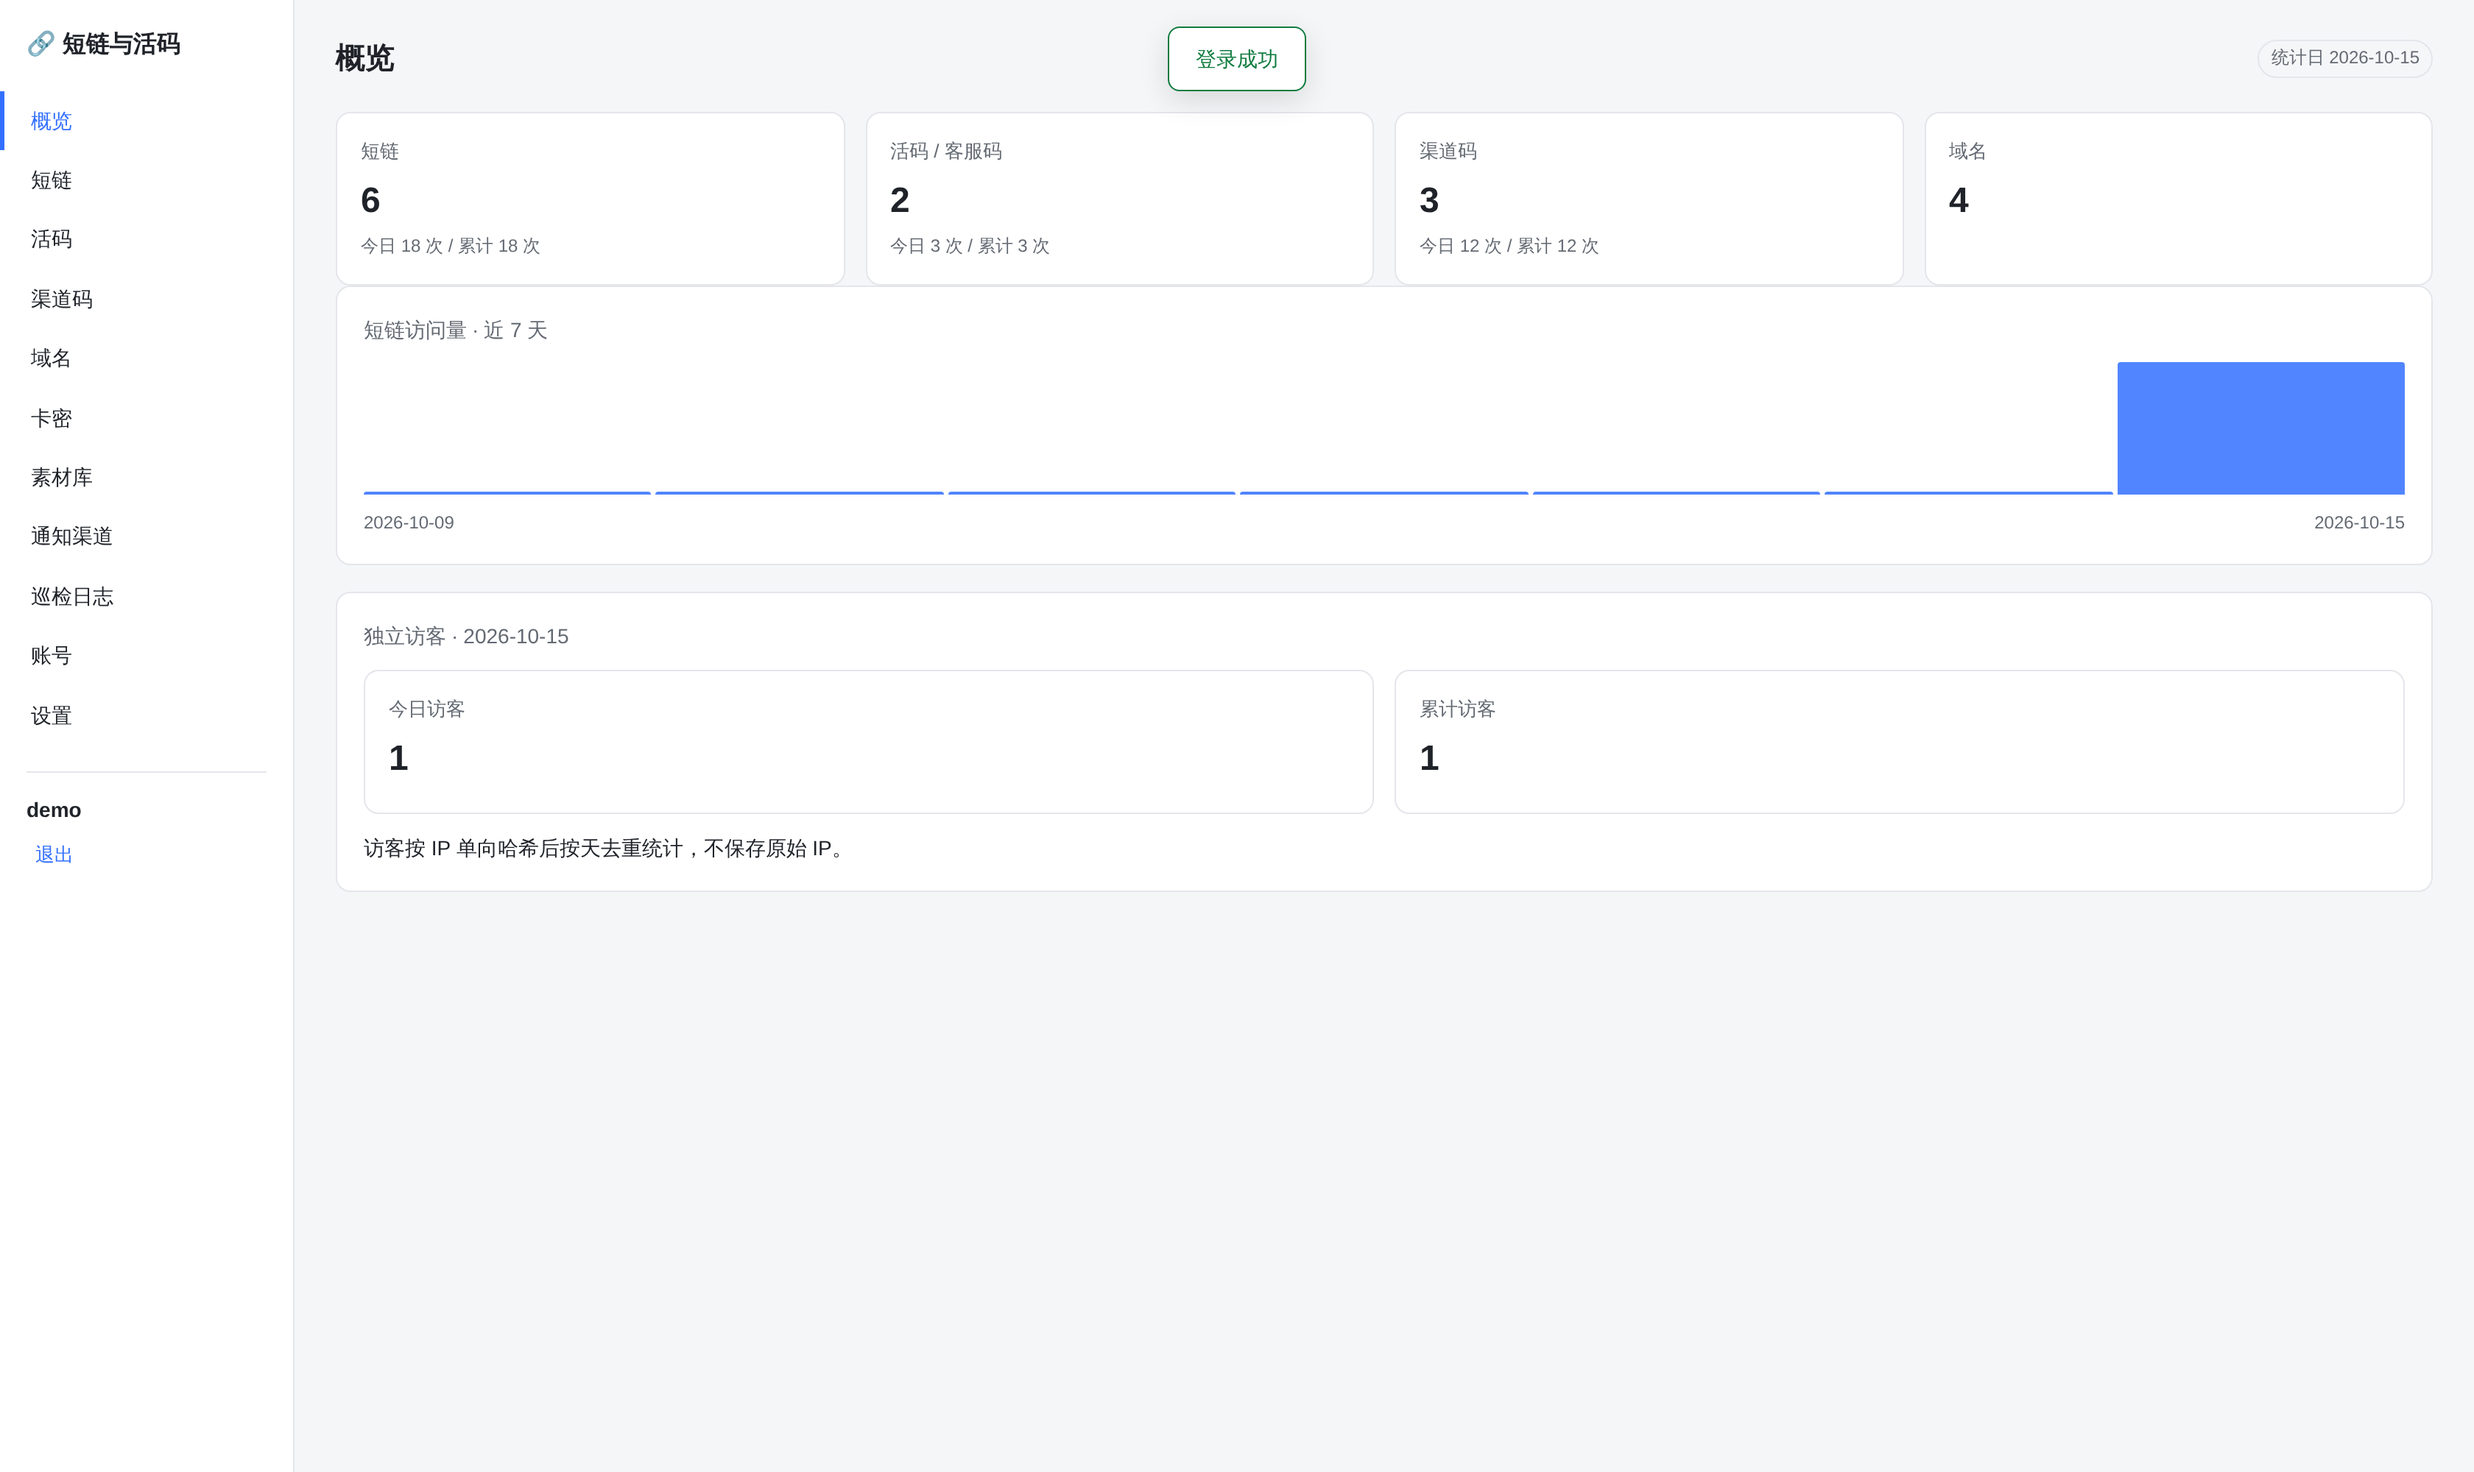
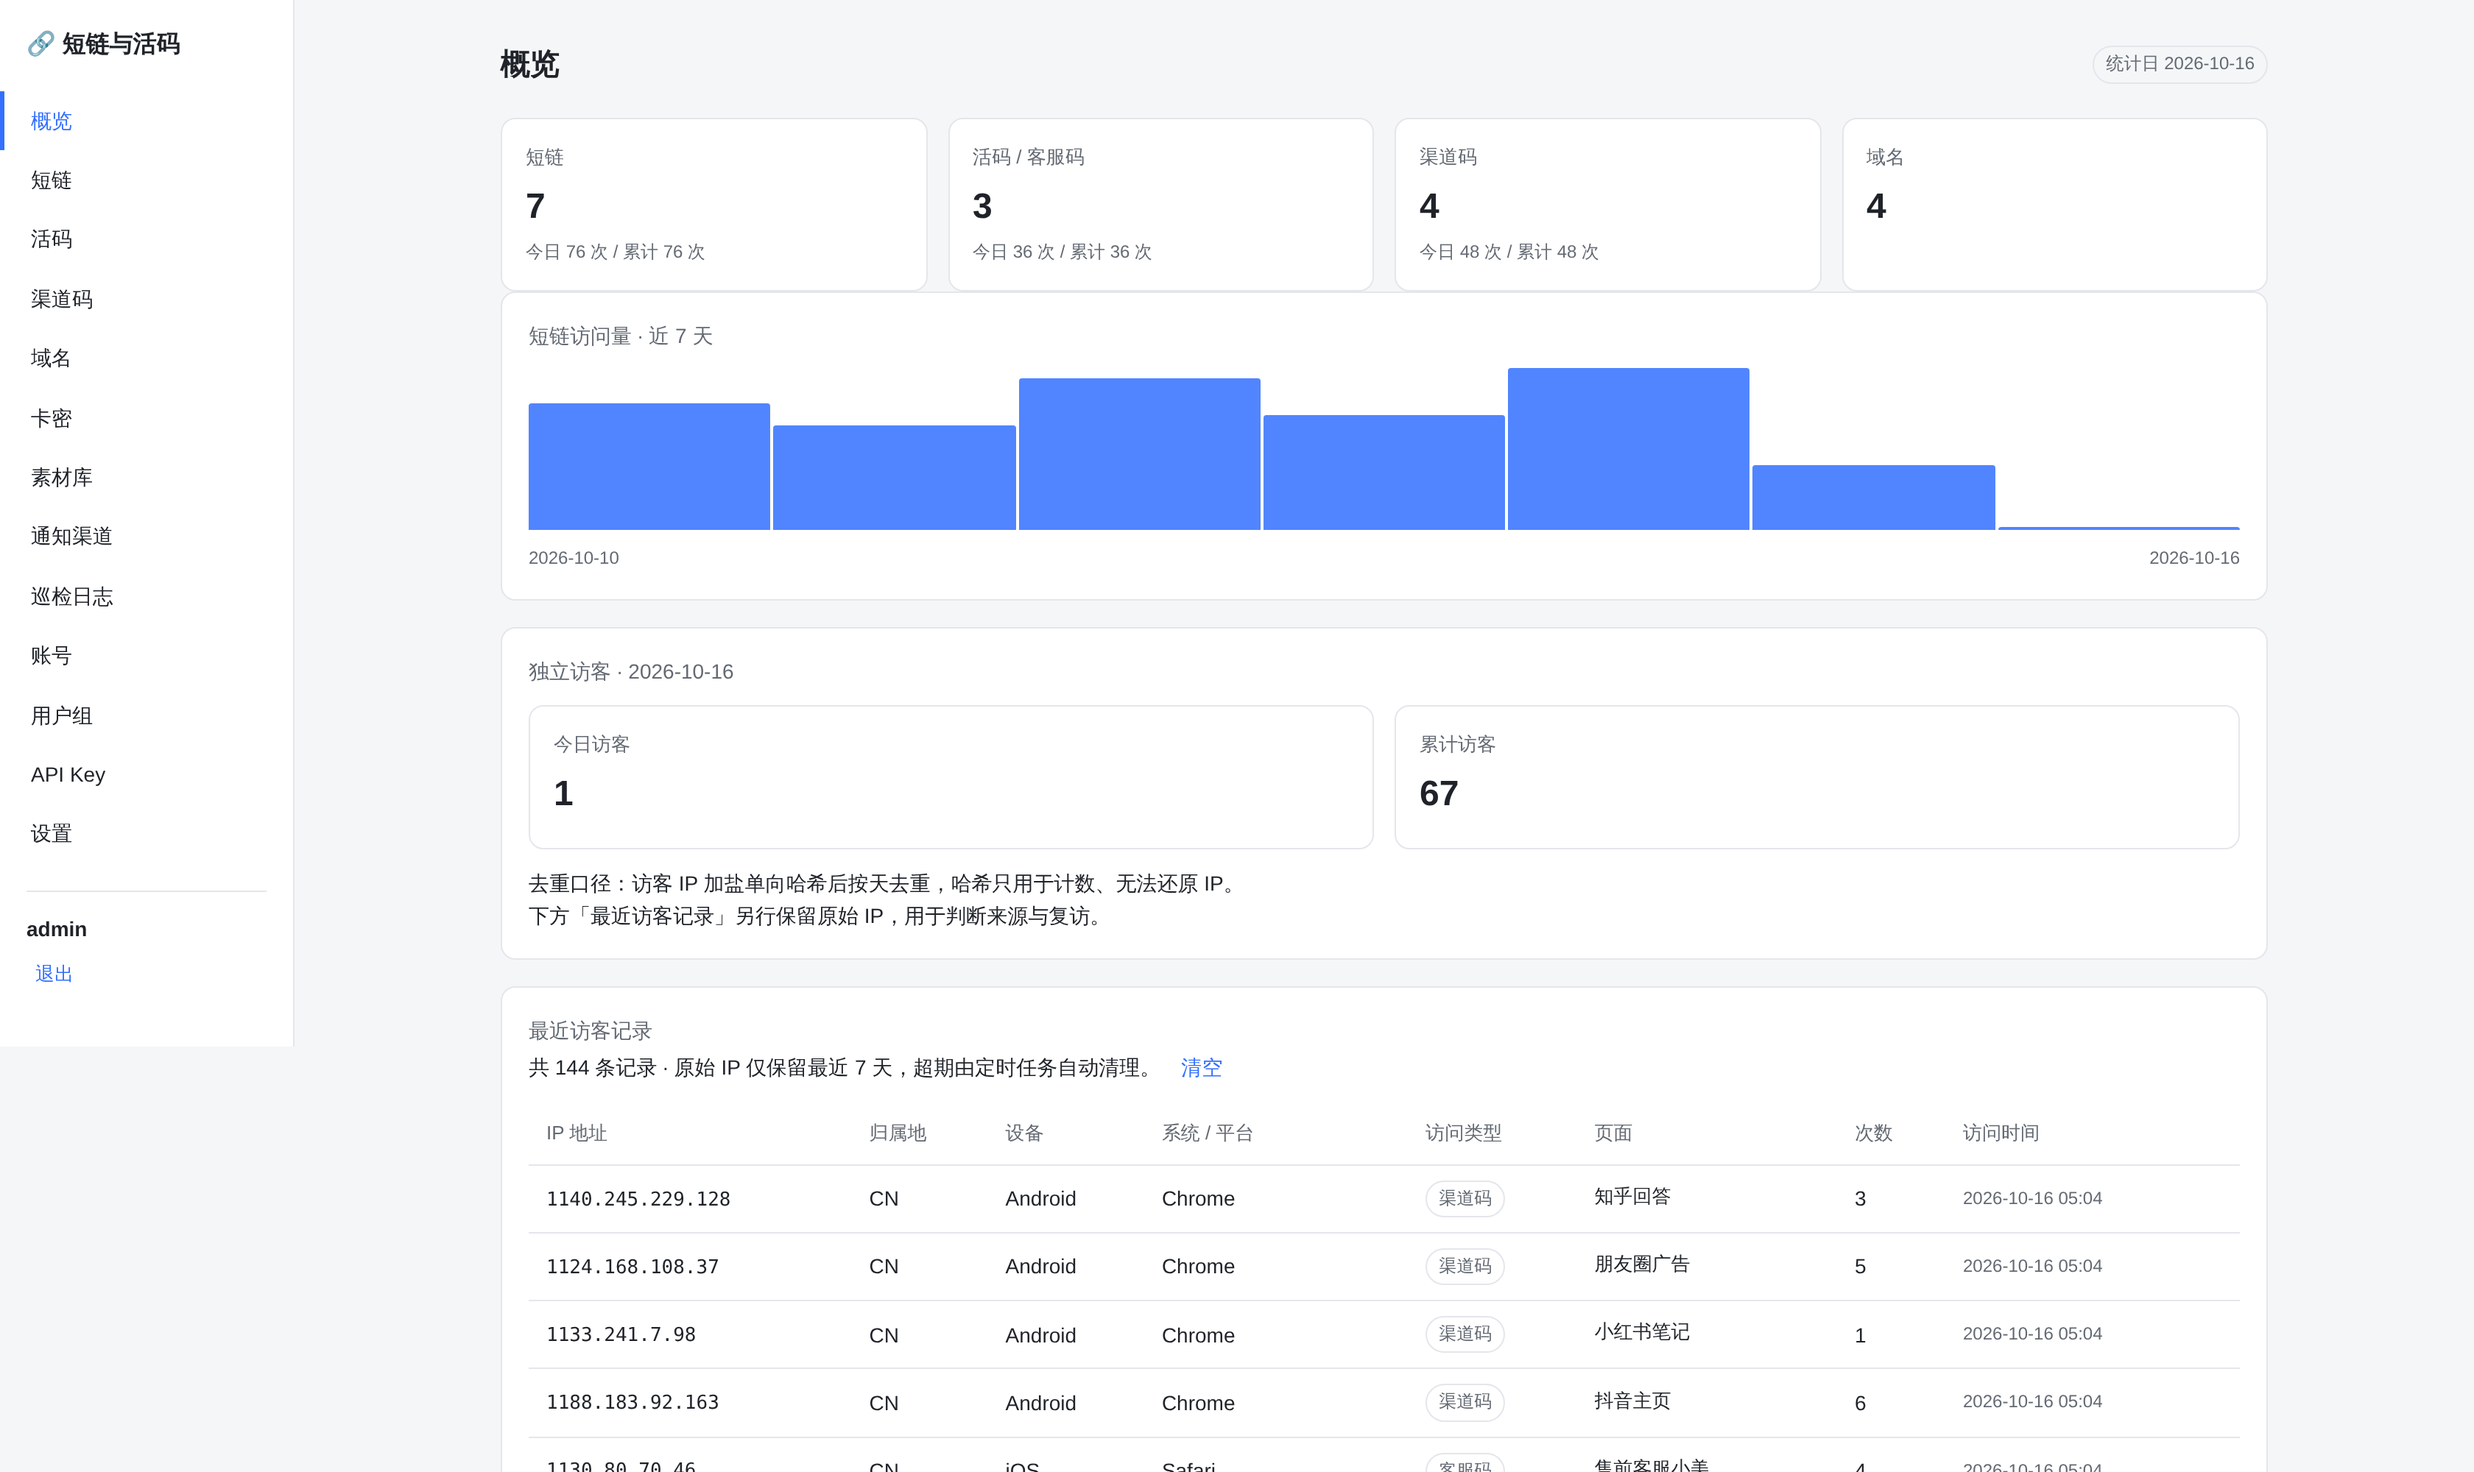
docs: 更新演示截图，补充用户组与开放接口页
项目新增了用户组配额、开放接口（API Key + skill 一键安装）等能力，
原来的 README 截图已经对不上，重拍全部 12 张后台截图。

顺带修掉截图中暴露的两个问题：

- 巡检日志接口直接返回下划线列名的裸行，导致「耗时」「时间」
  两列永远渲染成 `-`。补一层 camelCase 序列化，并加断言防回归。
- 表格操作列会被前面的长列挤到贴住卡片右边缘（活码、卡密两页
  的「删除」被裁掉）。给操作列固定宽度 + 允许换行。

diff --git a/packages/worker/src/domain/inspection.js b/packages/worker/src/domain/inspection.js
@@ -175,7 +175,28 @@ export async function listInspectionLogs(env, query) {
     .bind(...params, pageSize, (page - 1) * pageSize)
     .all();
 
-  return { total: totalRow?.total ?? 0, page, pageSize, items: results };
+  return { total: totalRow?.total ?? 0, page, pageSize, items: results.map(serializeLog) };
+}
+
+/**
+ * 巡检日志对外字段名。
+ *
+ * 表里是下划线列名，后台按 camelCase 读（item.latencyMs / item.createdAt）。
+ * 其它模块都在各自的 serialize 函数里做了这层转换，这里也照做 ——
+ * 直接返回裸行会让「耗时」「时间」两列永远渲染成 `-`。
+ */
+function serializeLog(row) {
+  return {
+    id: row.id,
+    kind: row.kind,
+    target: row.target,
+    ok: row.ok,
+    status: row.status,
+    latencyMs: row.latency_ms,
+    detail: row.detail,
+    notified: row.notified,
+    createdAt: row.created_at,
+  };
 }
 
 /** 立即执行一次巡检（后台手动触发按钮）。 */

diff --git a/packages/web/src/styles.css b/packages/web/src/styles.css
@@ -215,6 +215,11 @@ tbody tr:hover { background: var(--brand-weak); }
 /* 单元格不换行，窄屏（还没到断点、但已经有点挤）靠外层横向滚动，
    避免链接被压成一字一行 */
 .table-wrap th, .table-wrap td { white-space: nowrap; }
+/* 操作列给固定宽度并允许换行：不会被前面的长列挤到贴住卡片右边缘，
+   按钮多时自动折成两行，行高保持稳定 */
+.table-wrap th:last-child, .table-wrap td:last-child { width: 200px; padding-right: 20px; }
+.table-wrap td:last-child .actions { flex-wrap: wrap; }
+
 /* 长链接/文本由 .cell-clip 截断，宽度受控，不靠 overflow-wrap 撑高行 */
 .cell-clip {
   display: block;

diff --git a/packages/worker/test/inspection.test.js b/packages/worker/test/inspection.test.js
@@ -157,6 +157,9 @@ test('巡检日志接口可分页与按类型过滤', async () => {
 
   const all = await json('/api/inspection', { headers: auth(token) });
   assert.equal(all.body.total, 2);
+  // 列名是下划线，对外必须转成 camelCase，否则「耗时」「时间」两列渲染成 `-`
+  assert.ok(Object.hasOwn(all.body.items[0], 'createdAt'));
+  assert.equal(typeof all.body.items[0].latencyMs, 'number');
 
   const domainsOnly = await json('/api/inspection?kind=domain', { headers: auth(token) });
   assert.equal(domainsOnly.body.total, 1);

diff --git a/README.md b/README.md
@@ -42,9 +42,13 @@
 | --- | --- |
 | ![域名](docs/images/domains.png) | ![通知渠道](docs/images/notify-channels.png) |
 
-| 巡检日志 | 账号管理 |
+| 巡检日志 | 用户组 |
 | --- | --- |
-| ![巡检日志](docs/images/inspection.png) | ![账号管理](docs/images/users.png) |
+| ![巡检日志](docs/images/inspection.png) | ![用户组](docs/images/groups.png) |
+
+| 账号管理 | 开放接口（API Key） |
+| --- | --- |
+| ![账号管理](docs/images/users.png) | ![开放接口](docs/images/api-keys.png) |
 
 登录页：
 
